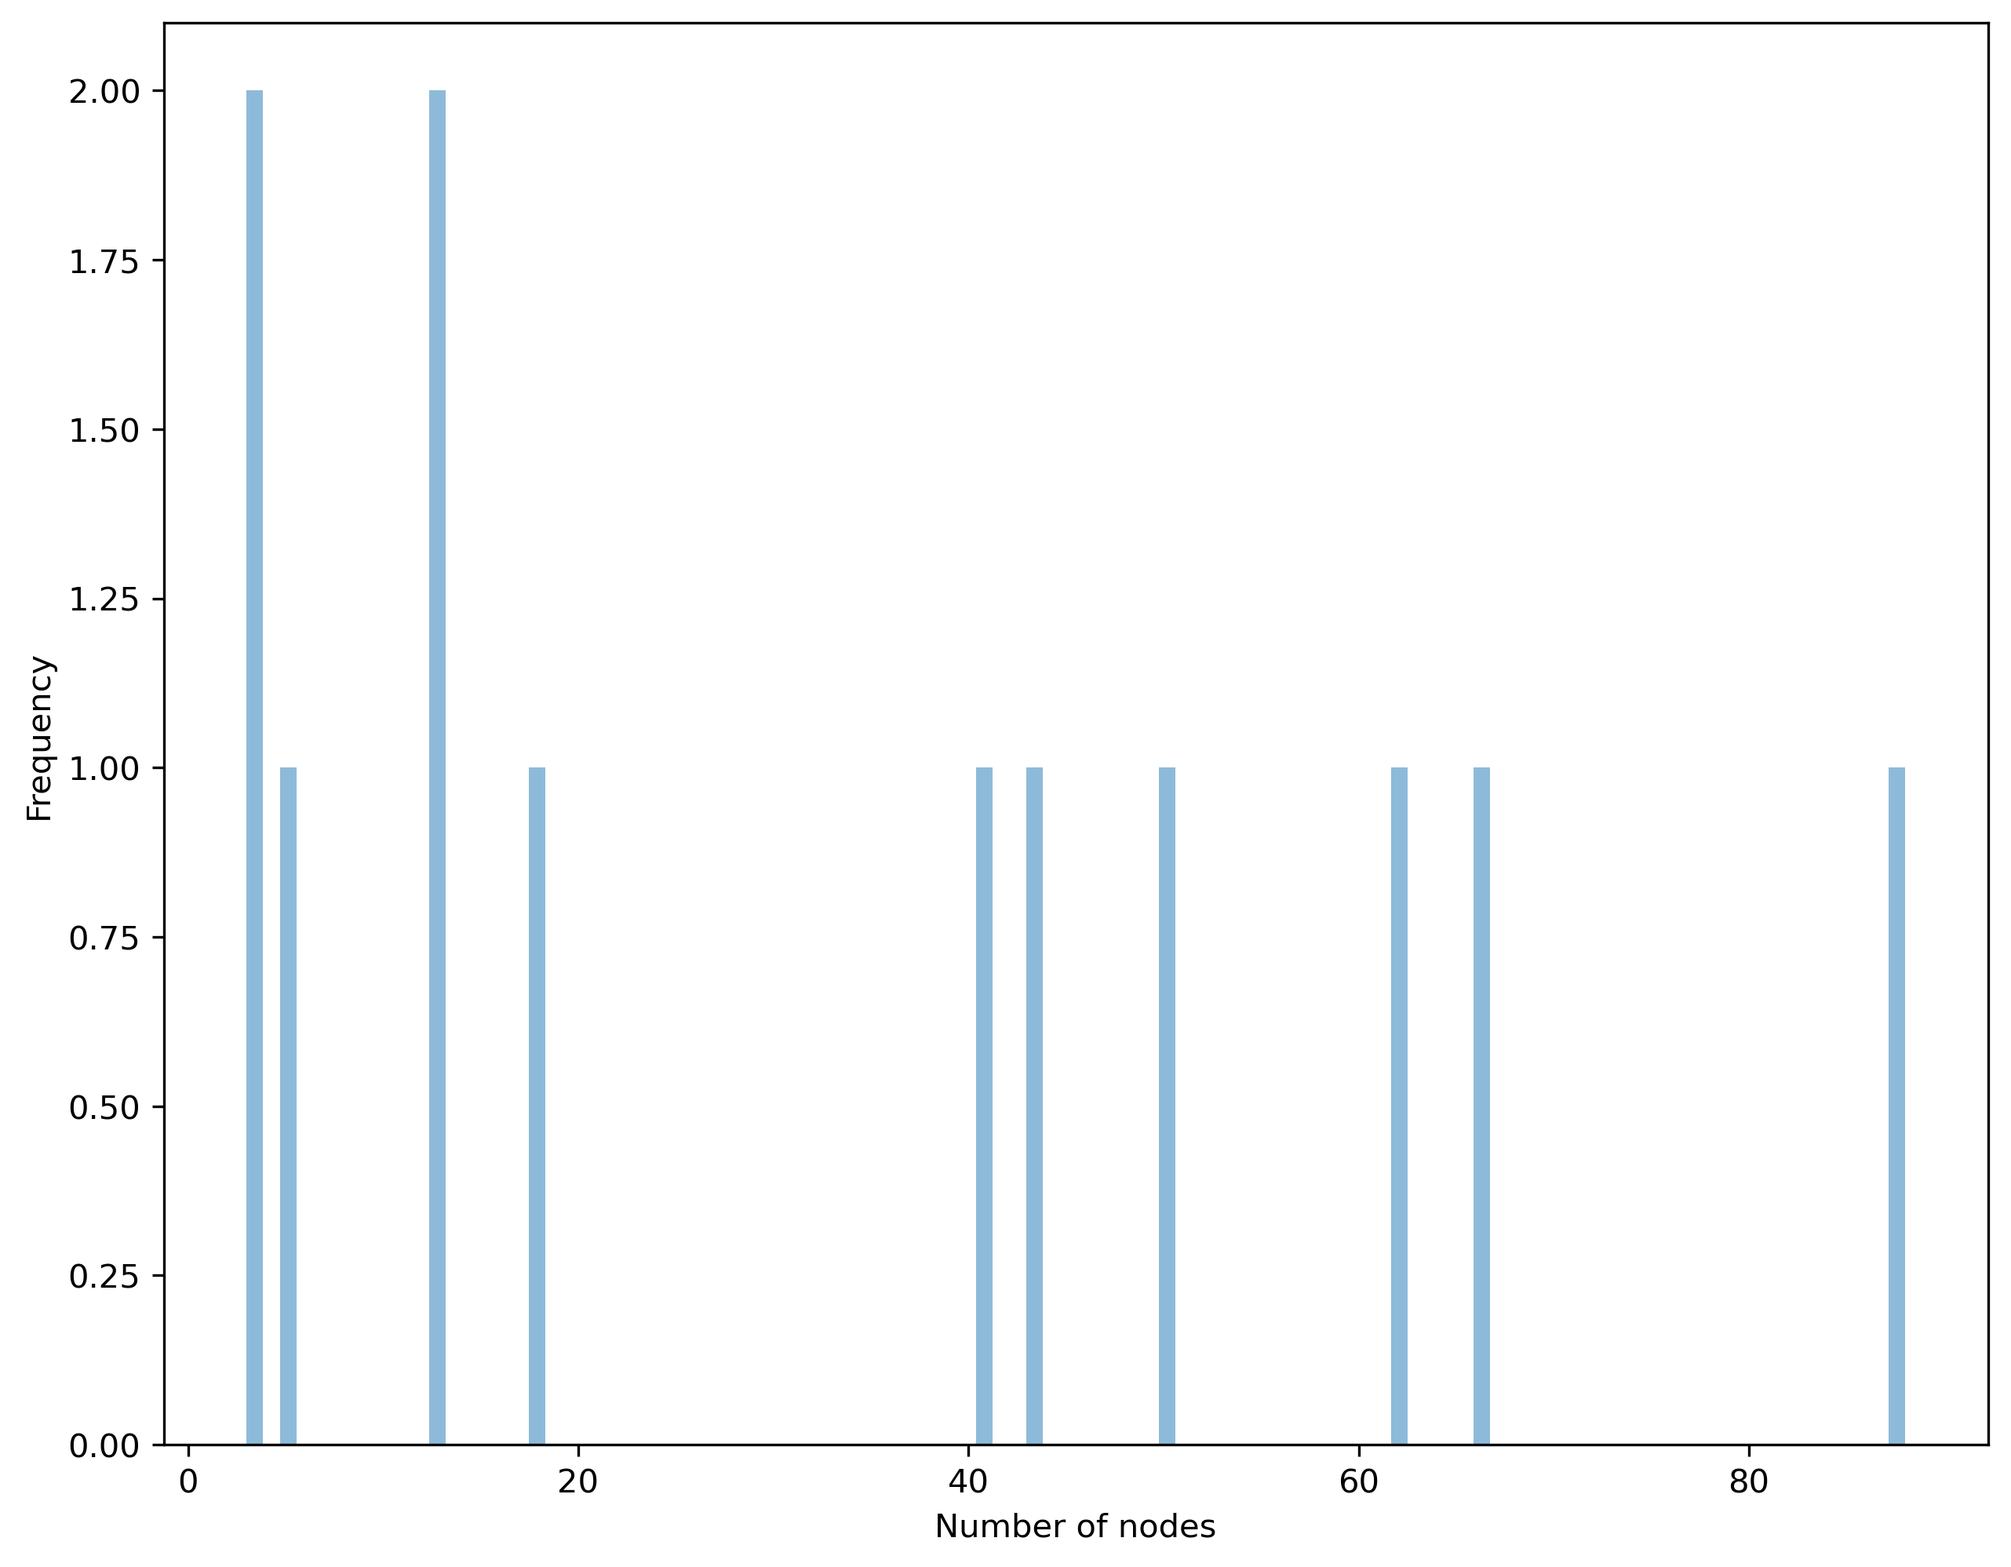
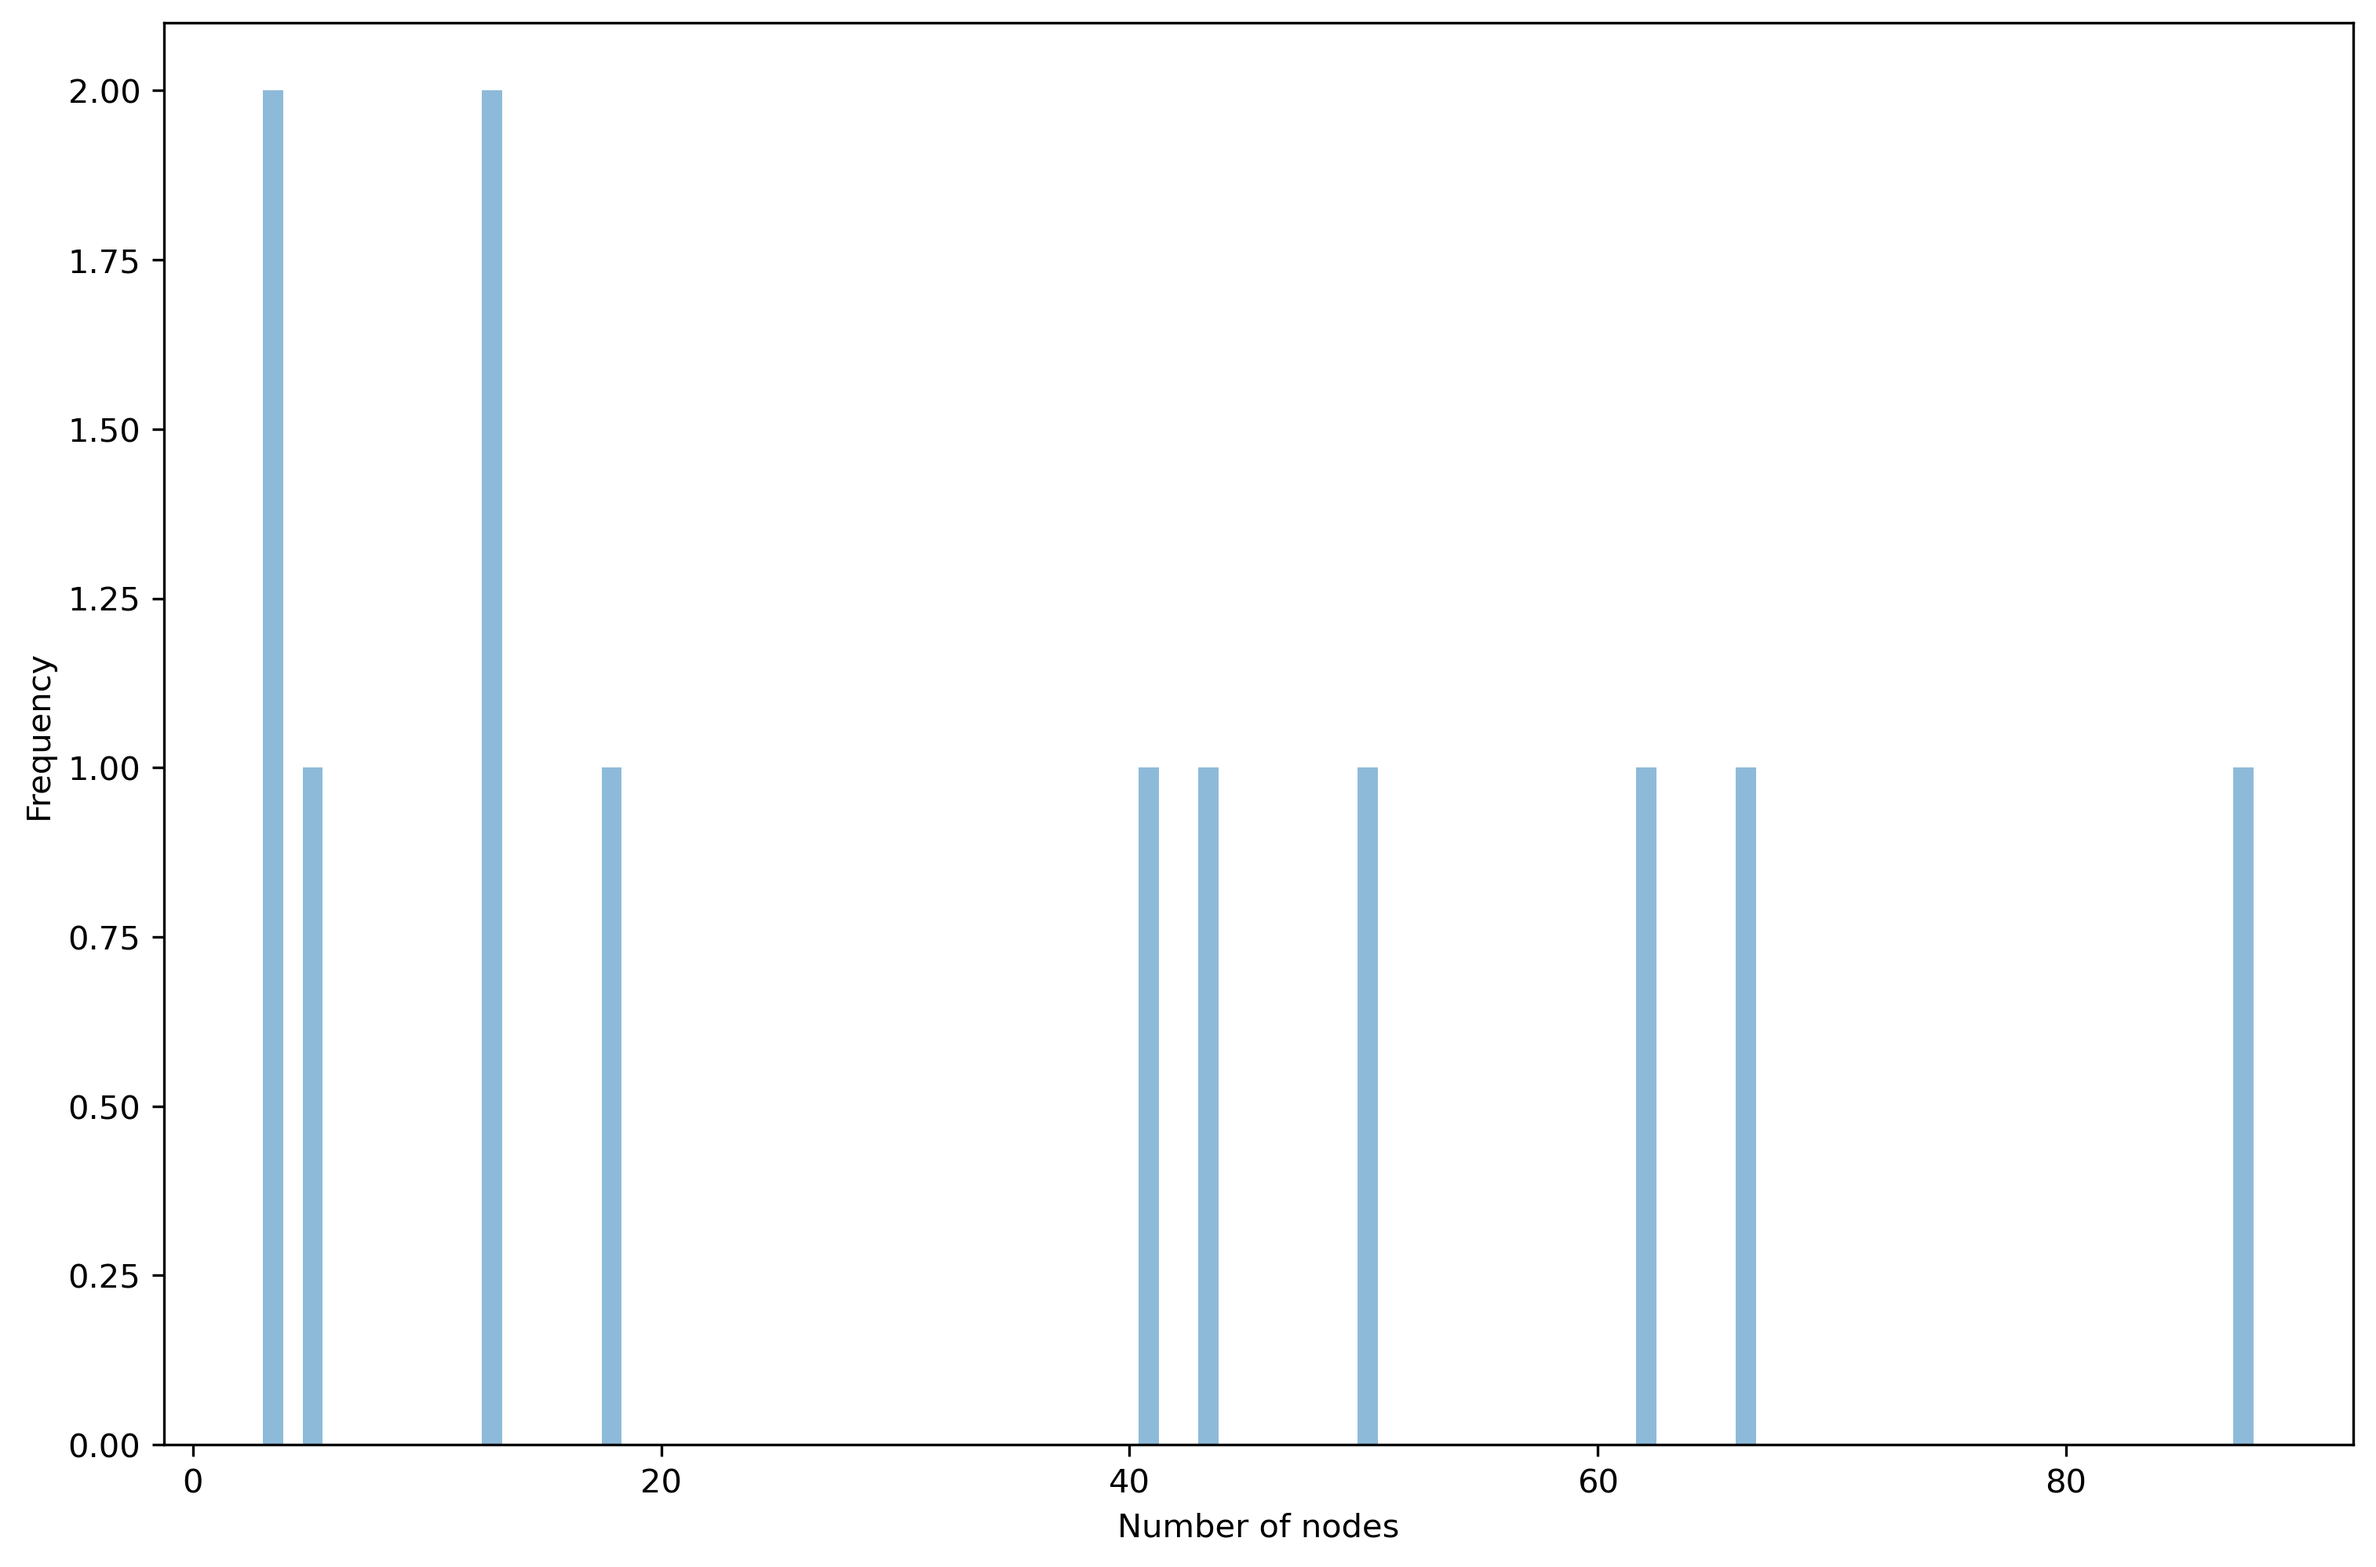
DOC: Update docs

diff --git a/docs/graph_stats.md b/docs/graph_stats.md
@@ -66,7 +66,7 @@ You can plot histograms of the different columns. The following code plots a his
 df = component_stats["Number of nodes"]
 
 # Plot the histogram
-ax = df.plot.hist(bins=100, alpha=0.5, figsize=(10, 8))
+ax = df.plot.hist(bins=100, alpha=0.5, figsize=(12, 8))
 
 # Set axis titles
 ax.set(xlabel='Number of nodes', ylabel='Frequency')
@@ -77,9 +77,9 @@ plt.savefig("histogram_n_nodes.png", format='png', dpi=300, bbox_inches='tight')
 
 ![](images/histogram_n_nodes.png)
 
-## Plot heatmaps and hierarchically-clustered heatmaps
+## Plot heatmaps
 
-You can plot heatmaps and hierarchically-clustered heatmaps for correlations of all the graph statistics.
+You can plot heatmaps for correlations of all the graph statistics as follows.
 
 ```python
 # Use Pearson correlation
@@ -94,7 +94,9 @@ plt.savefig("pearson_heatmap.png", format='png', dpi=300, bbox_inches='tight')
 
 ![](images/pearson_heatmap.png)
 
-As this image looks a bit messy and hard to interpret, we can clean it up by clustering so we can observe some patterns. For this we can use the `clustermap` function from seaborn which produces a hierarchically-clustered heatmap.
+## Plot hierarchically-clustered heatmaps
+
+As the heatmap above looks a bit messy and hard to interpret, we can clean it up by clustering so we can observe some patterns. For this we can use the `clustermap` function from seaborn which produces a hierarchically-clustered heatmap.
 
 ```python
 # Plot the hierarchically-clustered heatmap
